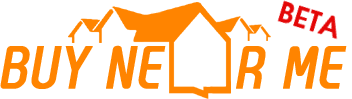
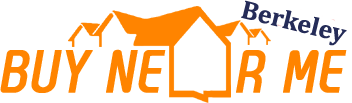
change landing page

diff --git a/cc/templates/index.html b/cc/templates/index.html
@@ -19,13 +19,13 @@ body{
 <div id="top-banner">
   <div id="banner-text" class="container">
     <h1>Buying and selling never felt so good</h1>
-    <h2>Find and share items within Berkeley</h2>
+    <h2>Buy at sell items on the Berkeley campus!</h2>
   </div>   
 </div>
 
 <div id="why-us" class="container row">
   <div id="why-text">
-    <h3 style="font-size:22pt"> Find whatever you need from the people around you. Easy.</h3>
+    <h3 style="font-size:22pt"> Meet on campus and trade with another Cal Bear!</h3>
   </div>
   <div style="float:left; padding-top:16px;">
     <a class="btn btn-primary btn-large" style="width:100px" href="{% url browse %}"> Browse Now</a>
@@ -43,7 +43,7 @@ body{
 
       <div class="span3">
           <h2>Browse</h2>
-          <p>View and find items quickly and easily.</p>
+          <p>View and find items quickly and easily by date listed.</p>
       </div>
       <div class="span3">
           <h2>Buy</h2>
